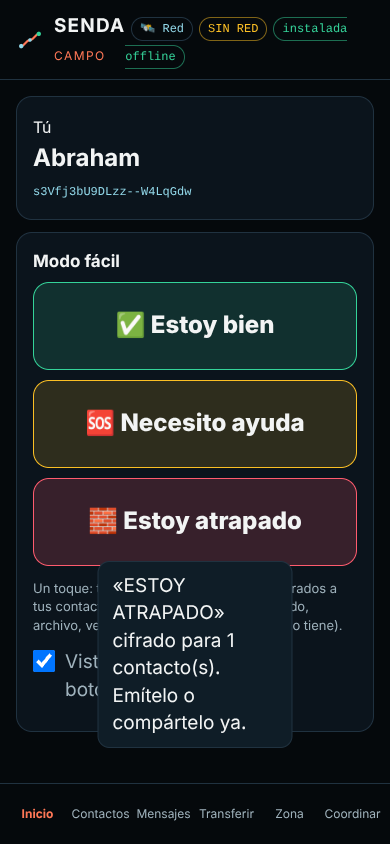
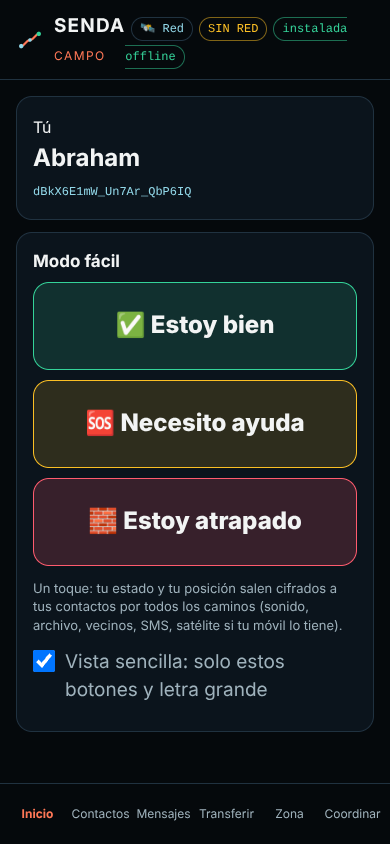
SENDA película: encaje de capturas, script de publicación y captura del modo fácil sin aviso superpuesto
Claude-Session: https://claude.ai/code/session_01F93SMm7368vin4HziQtGSY

Changed region(s): [[0.2462, 0.6469, 0.7692, 0.8934], [0.0923, 0.2156, 0.4923, 0.2464]]

diff --git a/media/senda-film/film.html b/media/senda-film/film.html
@@ -18,7 +18,7 @@ h1 span{display:inline-block;margin-right:.24em}
 .vis{position:relative;height:600px;display:flex;align-items:center;justify-content:center;gap:24px}
 .phone{width:250px;border-radius:30px;border:6px solid #1d2c37;overflow:hidden;box-shadow:0 30px 80px rgba(0,0,0,.55);background:#071018}
 .phone img,.desk img{display:block;width:100%}
-.desk{width:700px;border-radius:14px;border:1px solid var(--l);overflow:hidden;box-shadow:0 30px 80px rgba(0,0,0,.55);background:#071018;position:relative}
+.desk{width:636px;border-radius:14px;border:1px solid var(--l);overflow:hidden;box-shadow:0 30px 80px rgba(0,0,0,.55);background:#071018;position:relative}
 .desk .bar{height:26px;background:#0f1d27;display:flex;gap:6px;align-items:center;padding:0 10px}.desk .bar i{width:10px;height:10px;border-radius:50%;background:#2a3d4a}
 .crop{overflow:hidden;position:relative}.crop img{position:absolute;left:0;top:0;width:100%}
 .kpis{display:flex;flex-direction:column;gap:16px;width:100%}
@@ -66,7 +66,7 @@ function visualHTML(sc, idx) {
   if (v.kind === 'shots') {
     const frames = v.images.map((f, i) => {
       if (/e2e-(06|08|12)/.test(f)) {
-        const [y0, y1] = v.crop ? CROPS[v.crop] : [0, /06/.test(f) ? 1000 : 900]; const sc2 = 700 / 1280;
+        const [y0, y1] = v.crop ? CROPS[v.crop] : [0, /06/.test(f) ? 1000 : 900]; const sc2 = 636 / 1280;
         return `<div class="desk f${i}"><div class="bar"><i></i><i></i><i></i></div><div class="crop" style="height:${Math.round((y1 - y0) * sc2)}px"><img src="${img(f)}" style="top:${-Math.round(y0 * sc2)}px"></div></div>`;
       }
       const tall = /e2e-11/.test(f);
